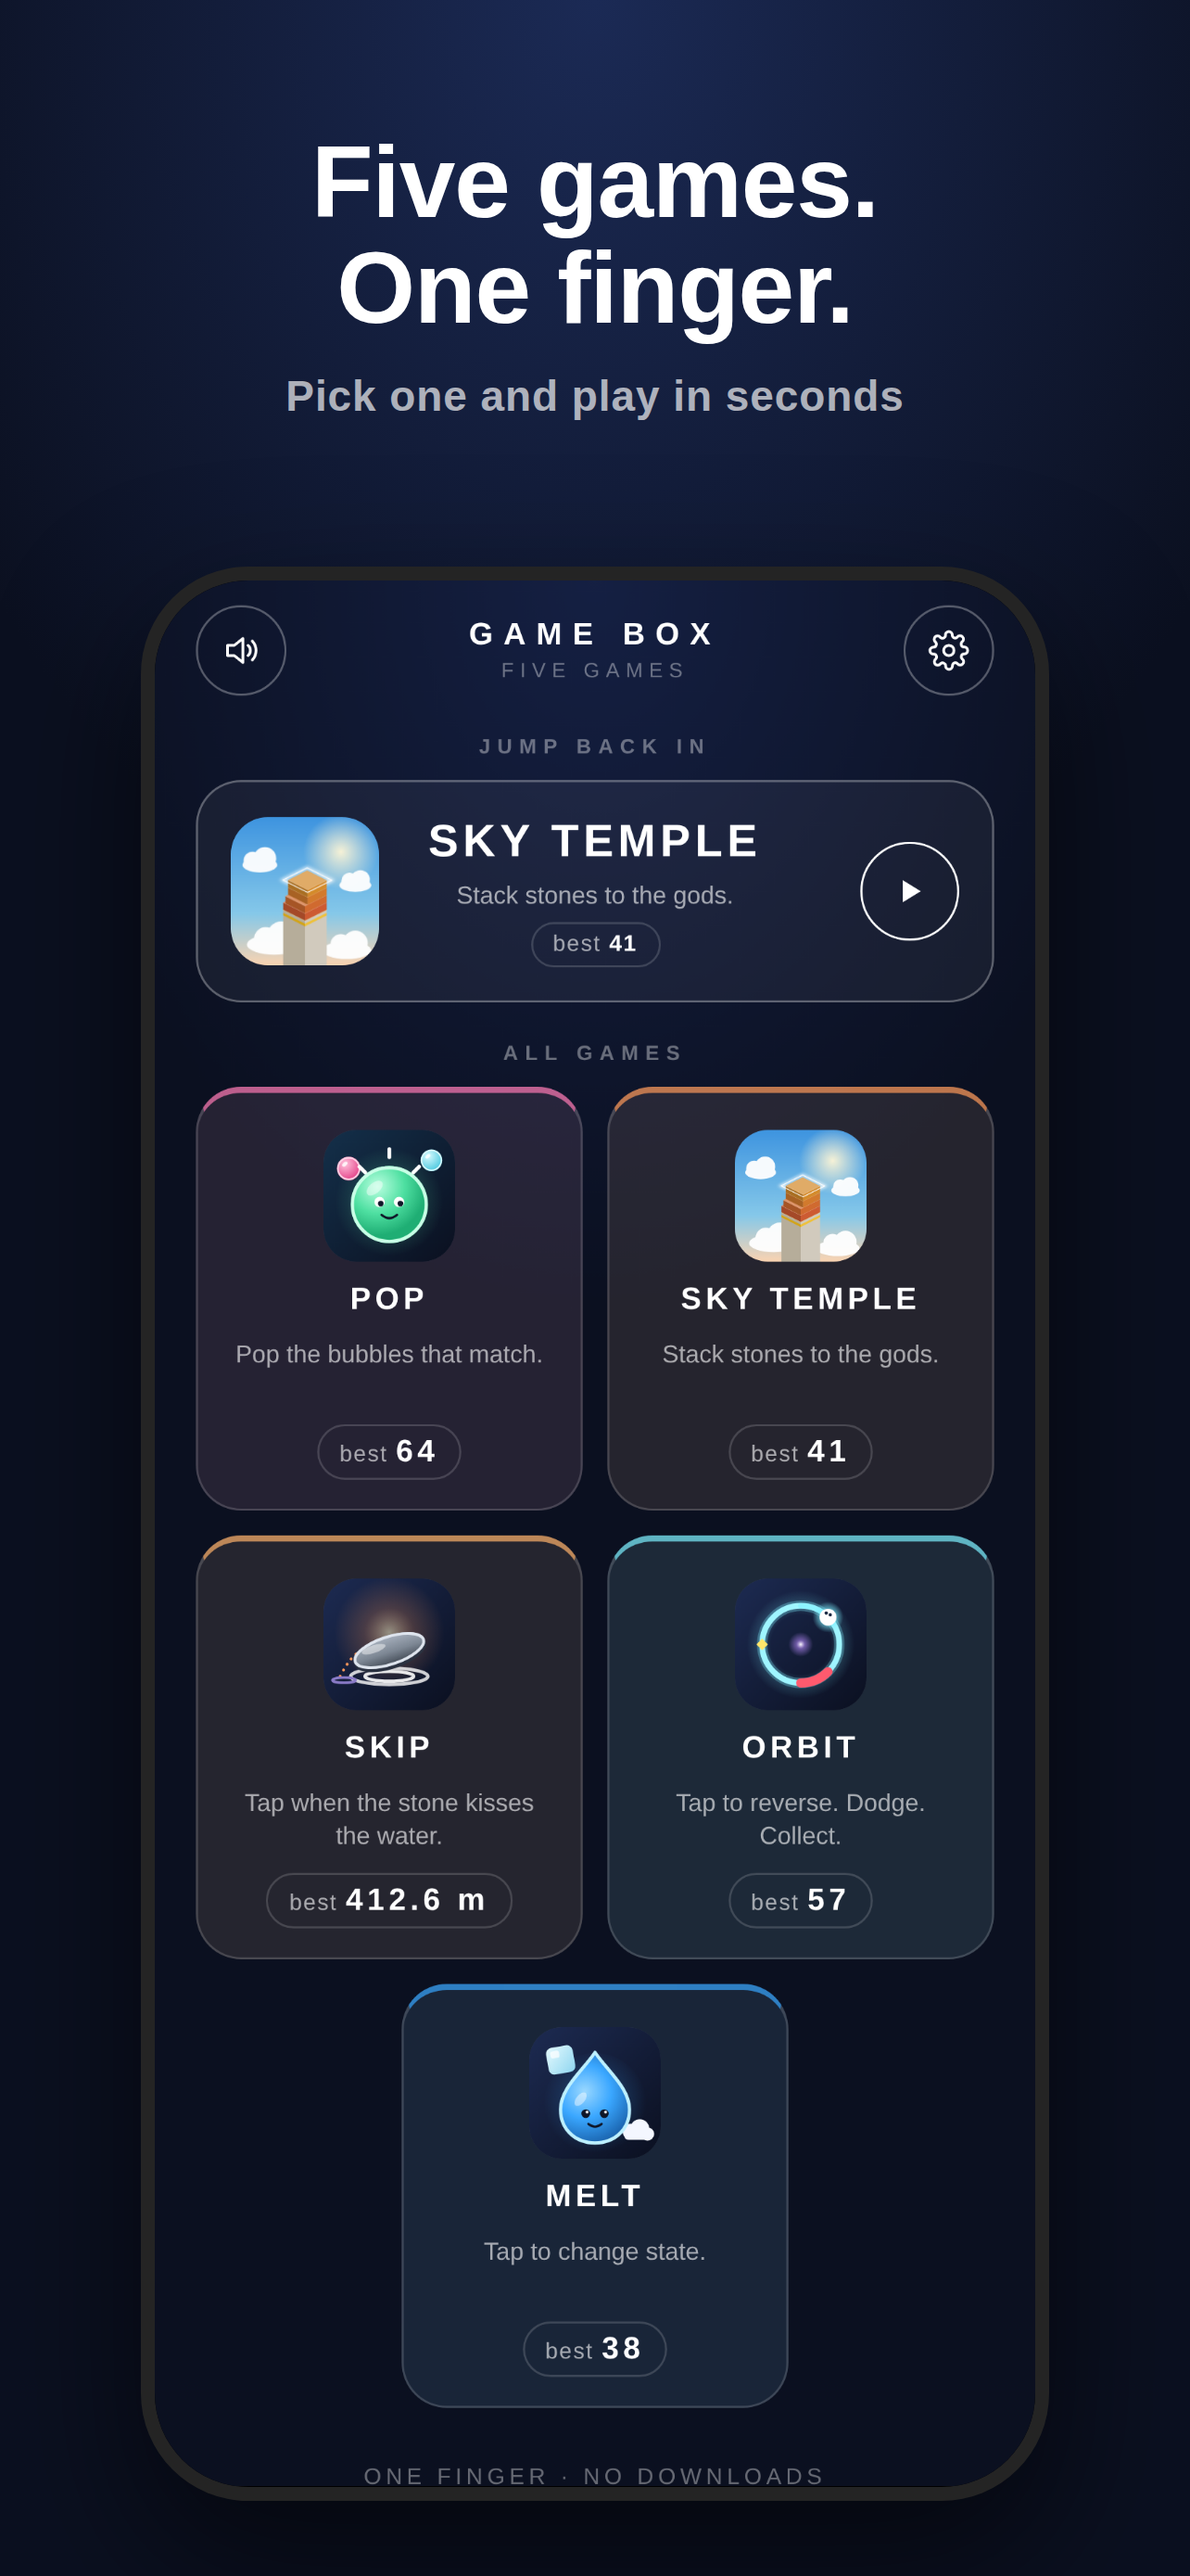
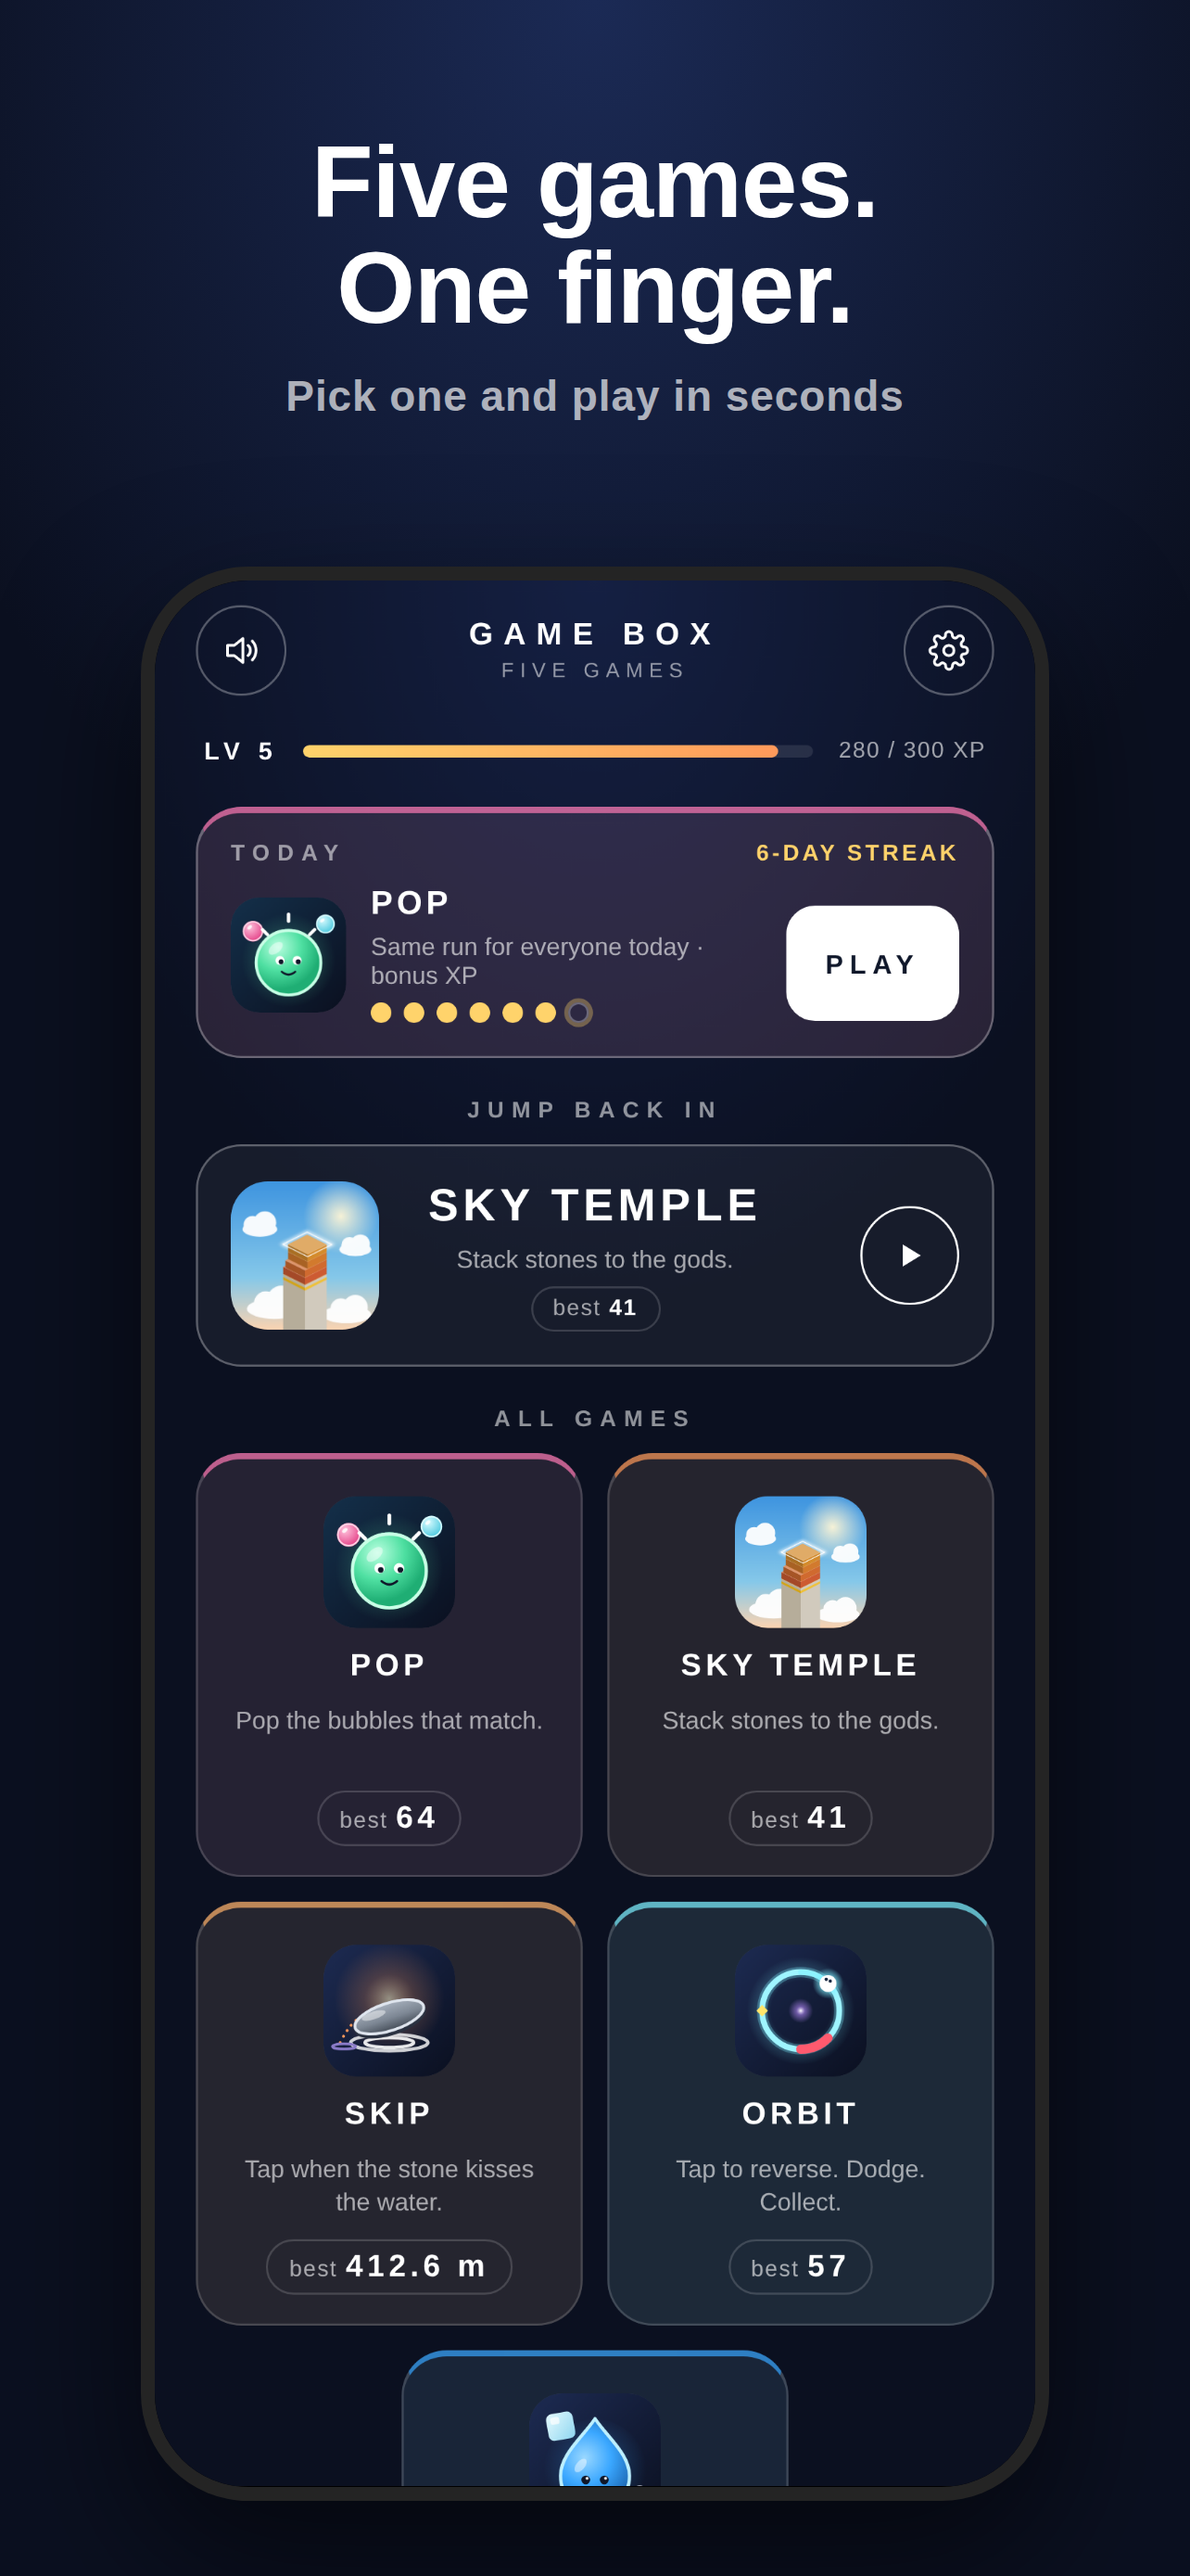
Store: hub frame shows a returning player's level and streak; listing copy covers the daily run, chains and momentum; checklist covers the IAP, AdMob consent and device smoke
Claude-Session: https://claude.ai/code/session_01GN1ViAcJT7YnuN6Pfh4UL5

Changed region(s): [[0.1558, 0.2786, 0.8411, 0.9906], [0.5607, 0.6501, 0.5919, 0.6811]]

diff --git a/store/METADATA.md b/store/METADATA.md
@@ -9,7 +9,7 @@ Copy these fields into App Store Connect ▸ your app ▸ *App Store* tab. Chara
 `One finger. Endless replays.`
 
 ## Promotional text (170, editable without a new build)
-`Five tiny games in one box. Skip stones at sunset, pop bubbles, dodge on a ring, change state, stack to the sky. Free, offline, no account.`
+`A new daily run every day: same game, same seed, for everyone. Keep your streak, level up across five one-tap games. Free, offline, no account.`
 
 ## Description (4000)
 ```
@@ -17,16 +17,20 @@ Five games. One finger. No downloads inside, no accounts, no waiting.
 
 Open the box, pick a game, play in seconds. Every game is one-touch, lasts about a minute, and gets harder the longer you last. Beat your best, challenge a friend on the exact same run, and climb the Game Center leaderboards.
 
+A NEW RUN EVERY DAY
+Each day one game hosts the Daily Run: the same course for every player in the world. Play it to keep your streak alive. Every run in every game earns XP, so you level up whichever game you love.
+
 THE GAMES
-• SKIP — Skip a stone across a sunset lake. Tap when it kisses the water. Chase the glowing motes, dodge the lily pads, and run from golden hour into a sky full of stars.
-• MELT — Tap to change state. Ice smashes glass, water flows through pipes, steam floats over spikes. Be the right one when it counts.
-• POP — Pop the bubbles that match the colour. Three lives. The colour keeps changing.
-• ORBIT — One tap reverses your comet. Dodge the red arcs, sweep up the gems.
+• POP — Pop the bubbles that match. Touching bubbles pop together, so wait for the big chain if you dare. Ten in a row starts a FRENZY.
 • SKY TEMPLE — Tap to drop stones on the tower. Land perfectly and they grow back.
+• SKIP — Skip a stone across a sunset lake. Tap as it meets its reflection. Chase the glowing motes, dodge the lily pads, and run from golden hour into a sky full of stars.
+• ORBIT — One tap reverses your comet. Hold your line to build a momentum multiplier; slip through a closing wall for a bonus.
+• MELT — Tap to change state. Ice smashes glass, water flows through pipes, steam floats over spikes. Be the right one when it counts.
 
 MADE FOR PHONES
 • Everything is one tap, thumb-first, portrait.
-• Each game has its own music and a 20-second tutorial.
+• Each game has its own music and teaches you while you play: no slideshows.
+• Colour-blind friendly: POP's bubbles carry shapes as well as colours.
 • Your best scores back up to iCloud and follow you to a new phone.
 • Challenge friends: send a link, they play the identical run, the result says who won.
 • Game Center leaderboards for every game.

diff --git a/store/CHECKLIST.md b/store/CHECKLIST.md
@@ -16,18 +16,20 @@ Tick top to bottom. Each line names where you do it. The code side is done; the 
 - [ ] Five Game Center leaderboards created with the IDs in `ios/APPLE-SETUP.md` §5.
 - [ ] App Privacy answered (see `store/METADATA.md`).
 - [ ] Age rating completed (4+).
-- [ ] Privacy policy URL live (publish `store/PRIVACY.md`).
+- [ ] Privacy policy URL live: `https://nickburum.github.io/Mythic-World/privacy/` (deploys with the site once this branch is merged to main).
 - [ ] Metadata pasted from `store/METADATA.md` (name, subtitle, description, keywords, promo text, URLs).
-- [ ] Screenshots uploaded from `store/screens/1290x2796` and `store/screens/1284x2778` (run `node tools/store-screens.mjs`).
+- [ ] Screenshots uploaded from `store/screens/1290x2796` and `store/screens/1284x2778` (7 each, already rendered; re-run `node tools/store-screens.mjs` after visual changes).
+- [ ] In-App Purchase created: *Monetization ▸ In-App Purchases ▸ +* ▸ Non-Consumable, Product ID **`com.mythicworld.gamebox.adfree`**, reference name "Go ad-free", price tier of your choice (US$2.99 suggested), review screenshot = the Settings sheet. Attach it to the first version.
 
 ## D. Ads (optional for TestFlight, required before release)
-- [ ] AdMob app + rewarded unit created; IDs pasted into `ios/project.yml` and `ios/GameBox/AdsBridge.swift`.
+- [ ] AdMob app + rewarded unit created; both IDs pasted into `ios/project.yml` (`GADApplicationIdentifier`, `GADRewardedUnitID`). Debug builds keep Google's test IDs automatically; `fastlane release` refuses to ship test IDs.
+- [ ] AdMob ▸ Privacy & messaging: GDPR message published (the app shows Google's consent form in the EU/UK). App settings ▸ "directed to children": No (the in-app age question tags under-13 players).
 - [ ] AdMob payments profile complete.
 
 ## E. TestFlight
 - [ ] Product ▸ Archive ▸ Distribute ▸ App Store Connect ▸ Upload.
 - [ ] Internal testers added; build installed on a real phone.
-- [ ] Smoke on device: every game plays; sound on; Continue shows a test ad; delete + reinstall restores scores; a challenge link opens the web version.
+- [ ] Smoke on device: every game plays; sound mixes with your music; on the 4th run the age question appears once, then Continue shows a test ad; Go ad-free in sandbox removes the ad (Restore brings it back after reinstall); Control Center pauses a run; delete + reinstall restores scores and streak; a challenge link opens the web version; today's run from the hub's Today card.
 
 ## F. Submit
 - [ ] Review notes pasted (`store/METADATA.md`).
